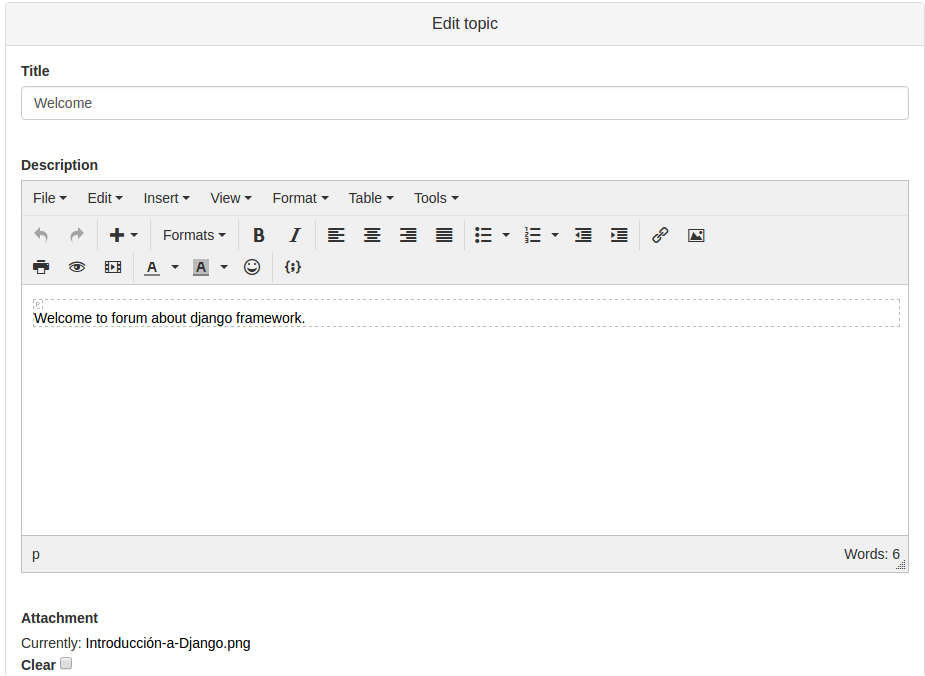
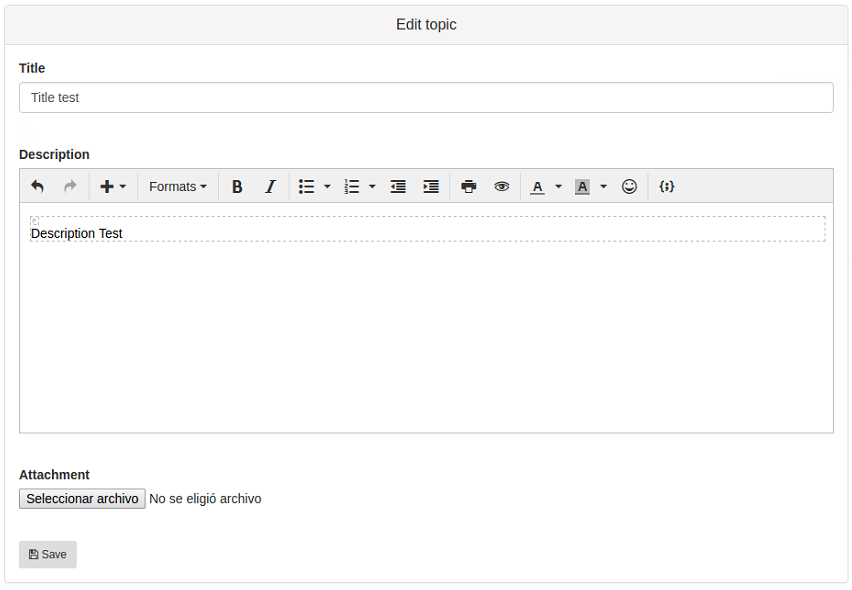
Default MCE config is overly complex #64

diff --git a/musette/static/musette/js/textareas.js b/musette/static/musette/js/textareas.js
@@ -2,11 +2,13 @@ tinymce.init({
   selector: 'textarea',
   height: 250,
   theme: 'modern',
+  menubar:false,
+  statusbar: false,
   plugins: [
-    'advlist autolink lists link image charmap print preview hr anchor pagebreak',
+    'advlist autolink lists link charmap print preview hr anchor pagebreak',
     'searchreplace wordcount visualblocks visualchars code fullscreen',
-    'insertdatetime media nonbreaking save table contextmenu directionality',
-    'emoticons template paste textcolor colorpicker textpattern imagetools codesample toc'
+    'insertdatetime nonbreaking save table contextmenu directionality',
+    'emoticons template paste textcolor colorpicker textpattern codesample toc'
   ],
   textpattern_patterns: [
      {start: '*', end: '*', format: 'italic'},
@@ -21,8 +23,7 @@ tinymce.init({
      {start: '* ', cmd: 'InsertUnorderedList'},
      {start: '- ', cmd: 'InsertUnorderedList'}
   ],
-  toolbar1: 'undo redo | insert | styleselect | bold italic | alignleft aligncenter alignright alignjustify | bullist numlist outdent indent | link image',
-  toolbar2: 'print preview media | forecolor backcolor emoticons | codesample',
+  toolbar1: 'undo redo | insert | styleselect | bold italic | bullist numlist outdent indent | print preview | forecolor backcolor emoticons | codesample',
   image_advtab: true,
   visualblocks_default_state: true,
   theme_advanced_toolbar_location : "top",

diff --git a/musette/templates/musette/topic_index.html b/musette/templates/musette/topic_index.html
@@ -176,8 +176,7 @@
   <!-- New comment-->
   {% if user.id != None and not topic.is_close %}
     <div class="row">
-        <div class="col-md-2"></div>
-        <div class="col-md-8">
+        <div class="col-md-10 col-md-offset-1">
           <form action="{% url 'newcomment' topic.forum.name topic.slug topic.idtopic %}" name="formComment" method="POST" class="well">{% csrf_token%}
             <center>
             {% for field in form_comment %}
@@ -198,7 +197,6 @@
             </button> <img src="{% static 'musette/img/ajax.gif' %}" class="hide" />
           </form>
         </div>
-        <div class="col-md-2"></div>
     </div>
   {% endif %}
 

diff --git a/roadmap.rst b/roadmap.rst
@@ -37,6 +37,7 @@ Roadmap Django-Musette
 
 1. [X] Issue #65 Add link profile in notifications.html
 2. [X] Issue #66 Command for create profile record for super-user
-3. [ ] Issue #40 Notifications and comments NoSQL
-4. [ ] Issue #17 Add message private between users
-5. [ ] If errors are found in the previous version. They will be arranged
+3. [X] Issue #64 Default MCE config is overly complex
+4. [ ] Issue #40 Notifications and comments NoSQL
+5. [ ] Issue #17 Add message private between users
+6. [ ] If errors are found in the previous version. They will be arranged
